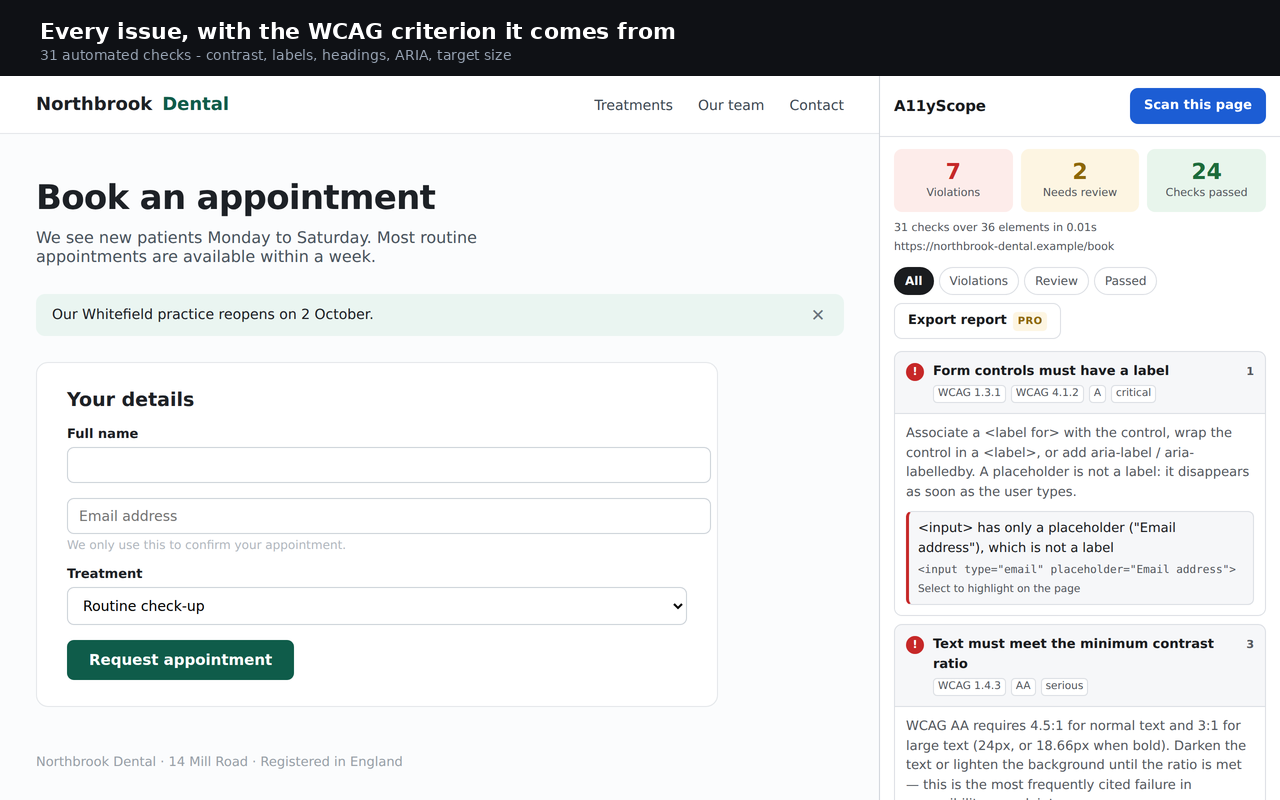
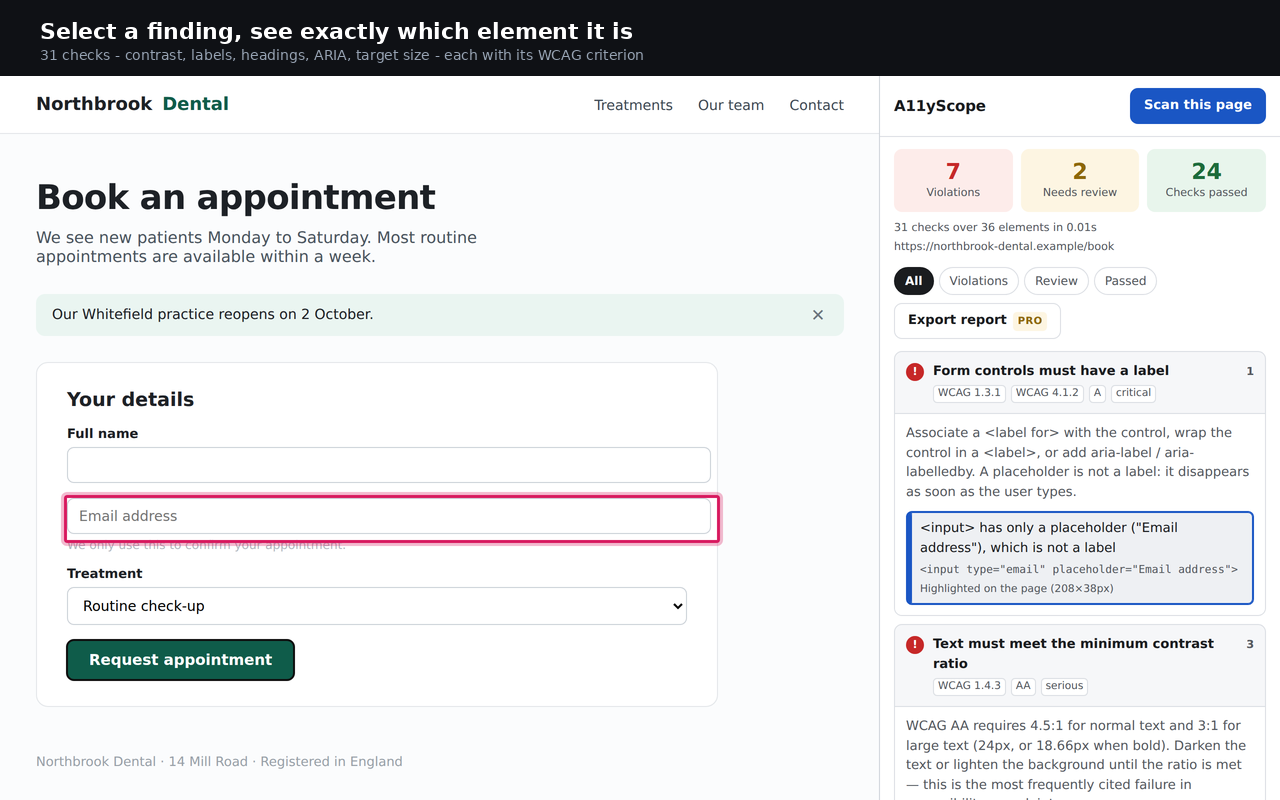
Mark the finding that is currently highlighted
Clicking a finding outlined the element on the page but left no trace in the
panel, so working down a long list meant losing your place every time you
looked away from it. The selected finding now keeps a border and
aria-current="true" until another is chosen, and the hint reads "Highlighted on
the page" rather than just "Highlighted".

The store screenshots are regenerated from that state: the page shows the
outline around the offending input, the panel shows the matching finding
selected. The link between "the panel says this" and "that element, there" is
the product, and a screenshot of an idle page did not show it.

Changed region(s): [[0.0312, 0.5938, 0.5625, 0.6875], [0.6875, 0.625, 0.9688, 0.75], [0.0312, 0.0312, 0.5312, 0.0938]]

diff --git a/src/panel/panel.js b/src/panel/panel.js
@@ -258,12 +258,20 @@ function renderFinding(finding, isReview) {
   hint.textContent = "Select to highlight on the page";
   button.append(hint);
 
-  button.addEventListener("click", () => highlight(finding, hint));
+  button.addEventListener("click", () => highlight(finding, button, hint));
   item.append(button);
   return item;
 }
 
-async function highlight(finding, hintNode) {
+async function highlight(finding, button, hintNode) {
+  // Only one finding is on screen at a time, so only one should look selected.
+  for (const other of els.results.querySelectorAll(".finding--active")) {
+    other.classList.remove("finding--active");
+    other.setAttribute("aria-current", "false");
+  }
+  button.classList.add("finding--active");
+  button.setAttribute("aria-current", "true");
+
   if (tabId === null) tabId = await activeTabId();
   const result = await chrome.runtime.sendMessage({
     type: "a11yscope:highlight",
@@ -274,8 +282,10 @@ async function highlight(finding, hintNode) {
     hintNode.textContent = result?.reason
       ? `Could not highlight: ${result.reason}`
       : "Could not highlight this element.";
+    button.classList.remove("finding--active");
+    button.setAttribute("aria-current", "false");
   } else {
-    hintNode.textContent = `Highlighted (${result.rect.width}×${result.rect.height}px)`;
+    hintNode.textContent = `Highlighted on the page (${result.rect.width}×${result.rect.height}px)`;
   }
 }
 

diff --git a/src/panel/panel.css b/src/panel/panel.css
@@ -403,6 +403,15 @@ body {
 .finding--review { border-left-color: var(--review); }
 .finding:hover { background: var(--bg-hover); }
 
+/* The finding currently highlighted on the page. Without this, working
+   through a long list means losing your place every time you look away. */
+.finding--active {
+  background: var(--bg-hover);
+  border-color: var(--accent);
+  border-left-width: 5px;
+  box-shadow: inset 0 0 0 1px var(--accent);
+}
+
 .finding__message { display: block; }
 
 .finding__snippet {

diff --git a/tools/compose_screenshots.py b/tools/compose_screenshots.py
@@ -28,8 +28,8 @@ ROOT = Path(__file__).resolve().parent.parent
 SHOTS = ROOT / "store" / "screenshots"
 
 PANELS = [
-    ("panel.png", "Every issue, with the WCAG criterion it comes from",
-     "31 automated checks - contrast, labels, headings, ARIA, target size"),
+    ("panel.png", "Select a finding, see exactly which element it is",
+     "31 checks - contrast, labels, headings, ARIA, target size - each with its WCAG criterion"),
     ("panel-footer.png", "Honest about what automation cannot tell you",
      "Findings it cannot decide are flagged for review, never guessed"),
 ]
